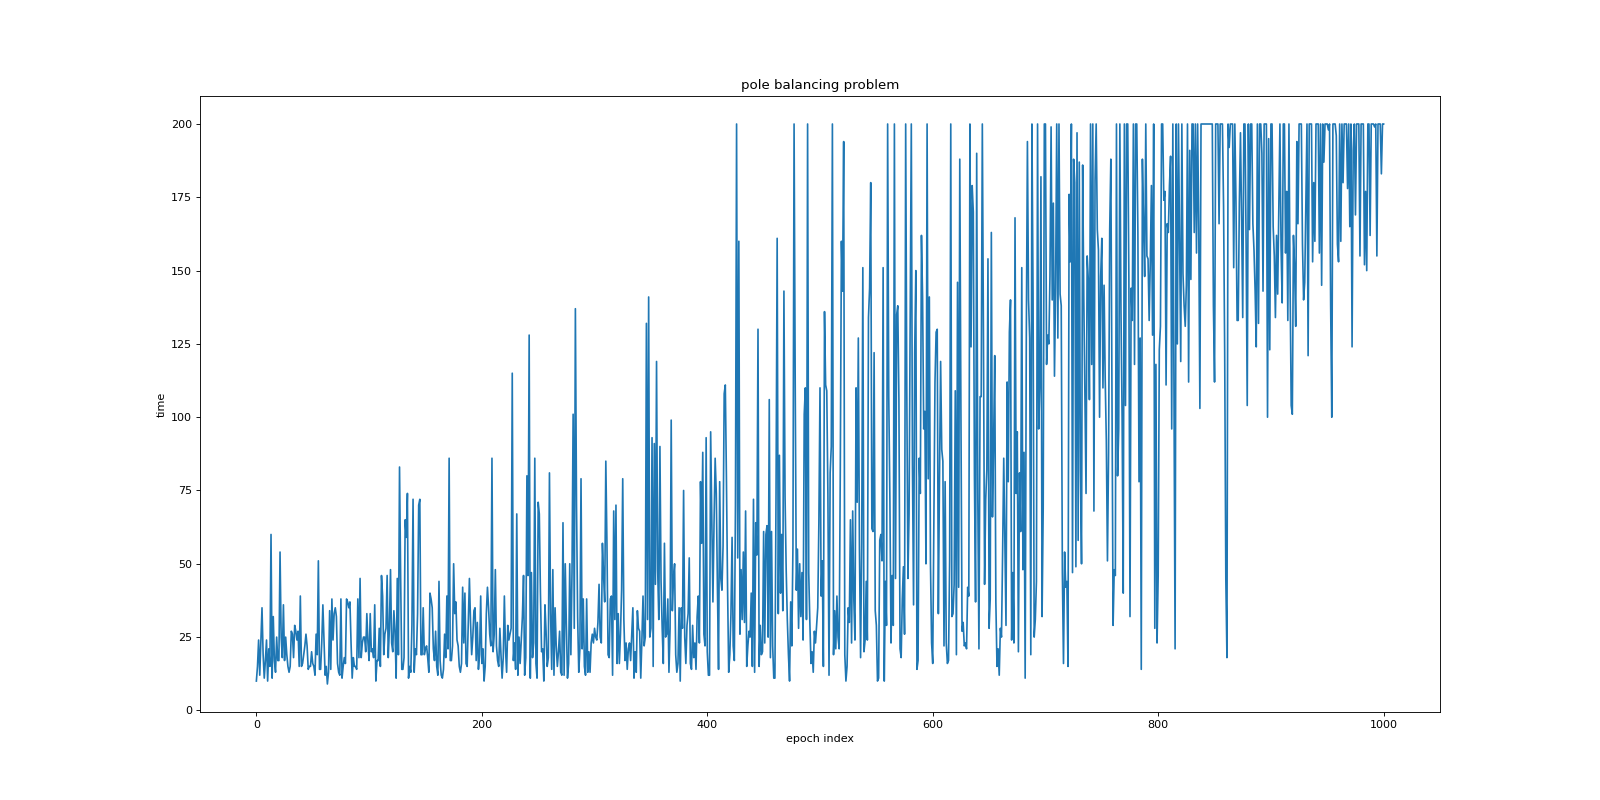
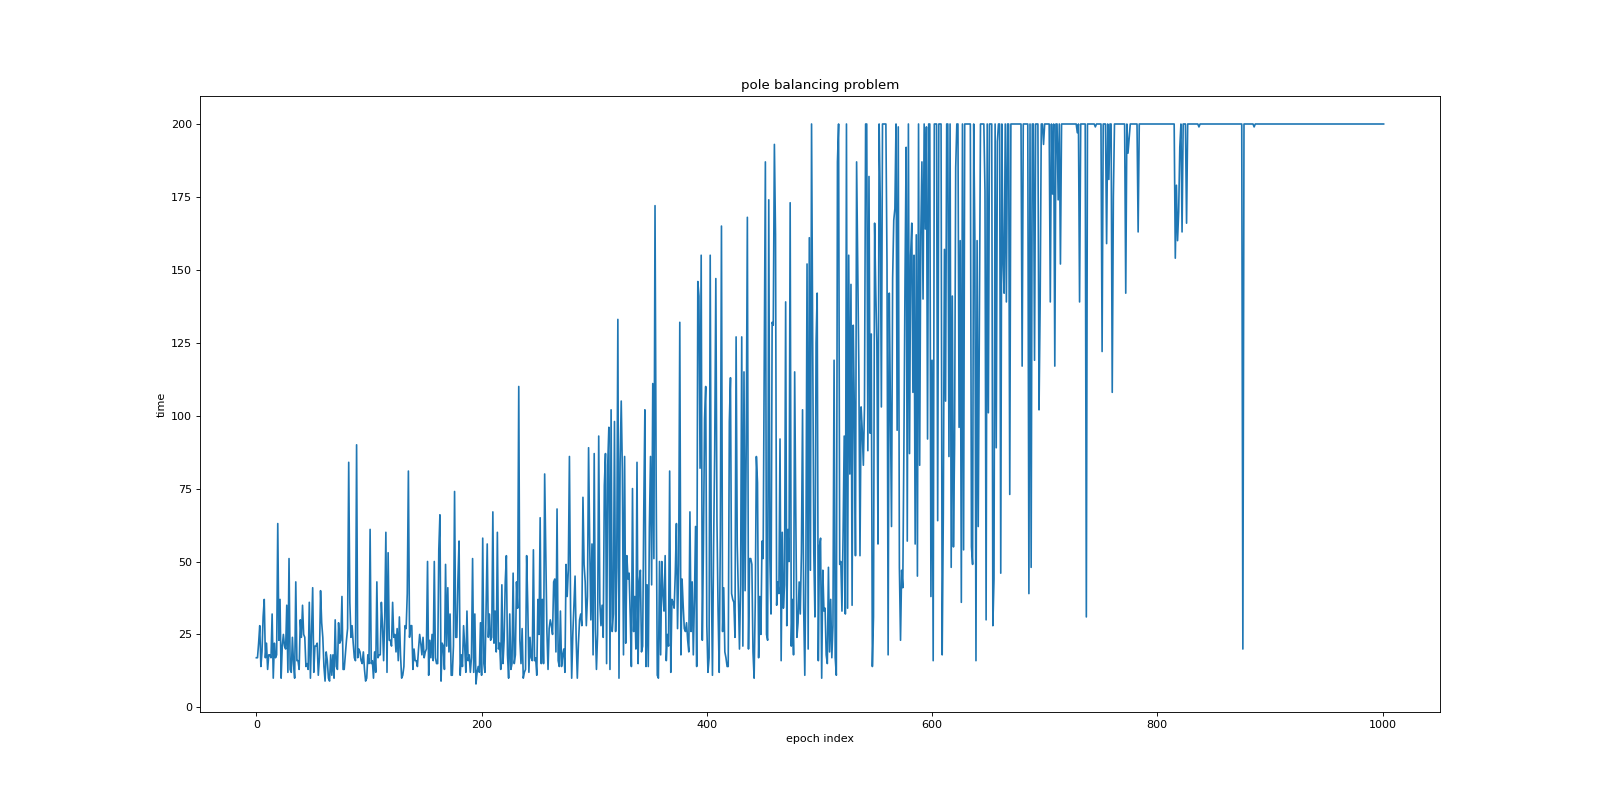
feat: Lsystem init

Changed region(s): [[0.1562, 0.1562, 0.875, 0.8438]]

diff --git a/lab/lab/cv5/QAgent.py b/lab/lab/cv5/QAgent.py
@@ -31,15 +31,14 @@ class QAgent:
             upper_bounds.append(t[1])
 
 
-        #prepis
         #velocity
         # lower_bounds[1] = -.5
         # upper_bounds[1] = .5
 
         #angular velocity
-        
-        lower_bounds[3] = -math.radians(50)
-        upper_bounds[3] = math.radians(50)
+
+        lower_bounds[3] = -math.radians(30)
+        upper_bounds[3] = math.radians(30)
 
 
         ##1
@@ -89,9 +88,8 @@ class QAgent:
             current_lower_b = lower_bounds[i]
             scaling = (current_state + abs(current_lower_b)) / (current_upper_b - current_lower_b)
             new_state = int(round((current_bucket - 1) * scaling))
-            new_state = min(current_bucket - 1, max(0, new_state)) #bounderies
+            new_state = min(current_bucket - 1, max(0, new_state)) #bounderies 0 - bucket size
             mapped_state.append(new_state)           
-
         return mapped_state
 
 
@@ -102,12 +100,9 @@ class QAgent:
 
     def get_action(self, env, state, test):
         r = np.random.uniform()
-
         is_random = r <= self.prob
-
         if test:
             is_random = False
-
         action = None
         if is_random:
             action = env.action_space.sample()

diff --git a/lab/lab/cv6/LSystem.py b/lab/lab/cv6/LSystem.py
@@ -1,0 +1,32 @@
+
+import turtle
+
+class LSystem():
+    def __init__(self, axiom, rule, angle, num):
+        self.angle = angle
+        self.rule = rule
+        self.axiom = axiom
+        self.num = num
+        self.resolve_axiom_deps_rule()
+
+    def resolve_axiom_deps_rule(self):
+        c = 0
+        res = self.axiom
+        while(c < self.num):
+            res = res.replace('F', self.rule)
+            c += 1
+        print(res)
+
+
+
+    def draw(self):
+        t = turtle.Turtle()
+        c = 0
+        while(c < 3):
+            t.forward(50)
+            c+=1
+        
+
+
+        input('Exit..')
+

diff --git a/lab/main.py b/lab/main.py
@@ -4,14 +4,17 @@ from lab.cv2.cv2 import cv2
 from lab.cv3.cv3 import cv3
 from lab.cv4.cv4 import cv4
 from lab.cv5.cv5 import cv5
+from lab.cv6.cv6 import cv6
 import matplotlib.pyplot as plt
-
 
 # cv1()
 # cv2()
 # cv3()
 # cv4()
-cv5()
-# cv5_test()
+# cv5()
+
+
+cv6()
+
 
 # input("Press Enter to end...")

diff --git a/lab/lab/cv6/cv6.py b/lab/lab/cv6/cv6.py
@@ -1,0 +1,16 @@
+from lab.cv6.LSystem import LSystem
+from lab.cv6.CONSTANTS import first, second, third, fourth
+
+
+
+def cv6():
+    s1 = LSystem(*first, 1)    
+    # s2 = LSystem(*second)
+    # s3 = LSystem(*third)
+    # s4 = LSystem(*fourth)
+
+
+    s1.draw()
+
+
+    # print('cv6')

diff --git a/lab/lab/cv5/cv5.py b/lab/lab/cv5/cv5.py
@@ -30,8 +30,6 @@ def cv5():
     def run_condition(t, done, state, test, epoch, agent):
         run = True
         if done:
-
-
             run = False
             if VERBOSE_TIME:
                 text = f'{t}' if test else f't={t}; e={epoch}; l={agent.learning_rate}'

diff --git a/lab/lab/cv5/CONSTANTS.py b/lab/lab/cv5/CONSTANTS.py
@@ -6,14 +6,8 @@ TIMESTAMPS = 200
 
 BUCKETS = (1, 1, 12, 12) #cause velocity ans postiion of cart is insignificant
 
-
-
-FIGURE = False
-
+FIGURE = True
 CONSTANT_LR = True
 
-
 LEARNING_RATE = 0.3
-
-
 DISCOUNT_FACTOR = 0.99

diff --git a/lab/lab/cv6/CONSTANTS.py b/lab/lab/cv6/CONSTANTS.py
@@ -1,0 +1,7 @@
+import math
+
+
+first = ('F+F+F+F', 'F+F-F-FF+F+F-F', 90)
+second = ('F++F++F', 'F+F--F+F', 60) 
+third = ('F', 'F[+F]F[-F]F', math.pi/7)
+fourth = ('F', 'FF+[+F-F-F]-[-F+F+F]', math.pi/8)
